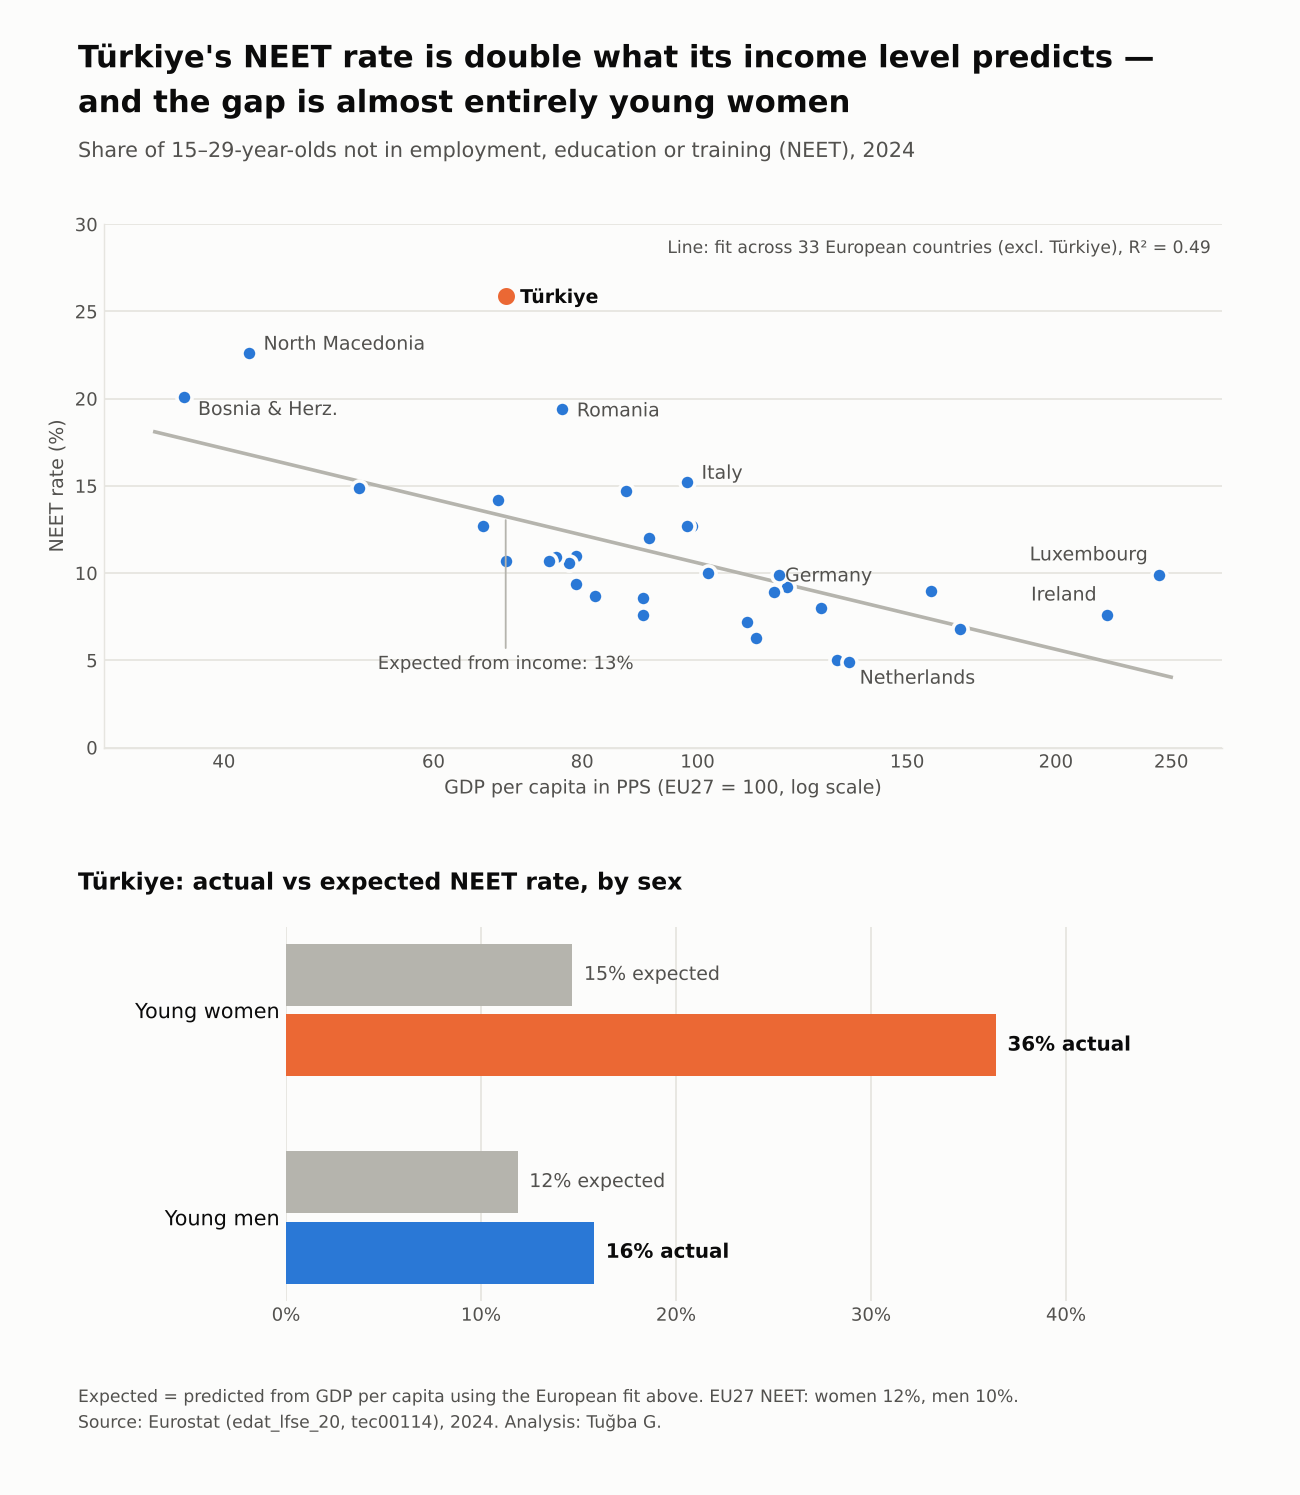
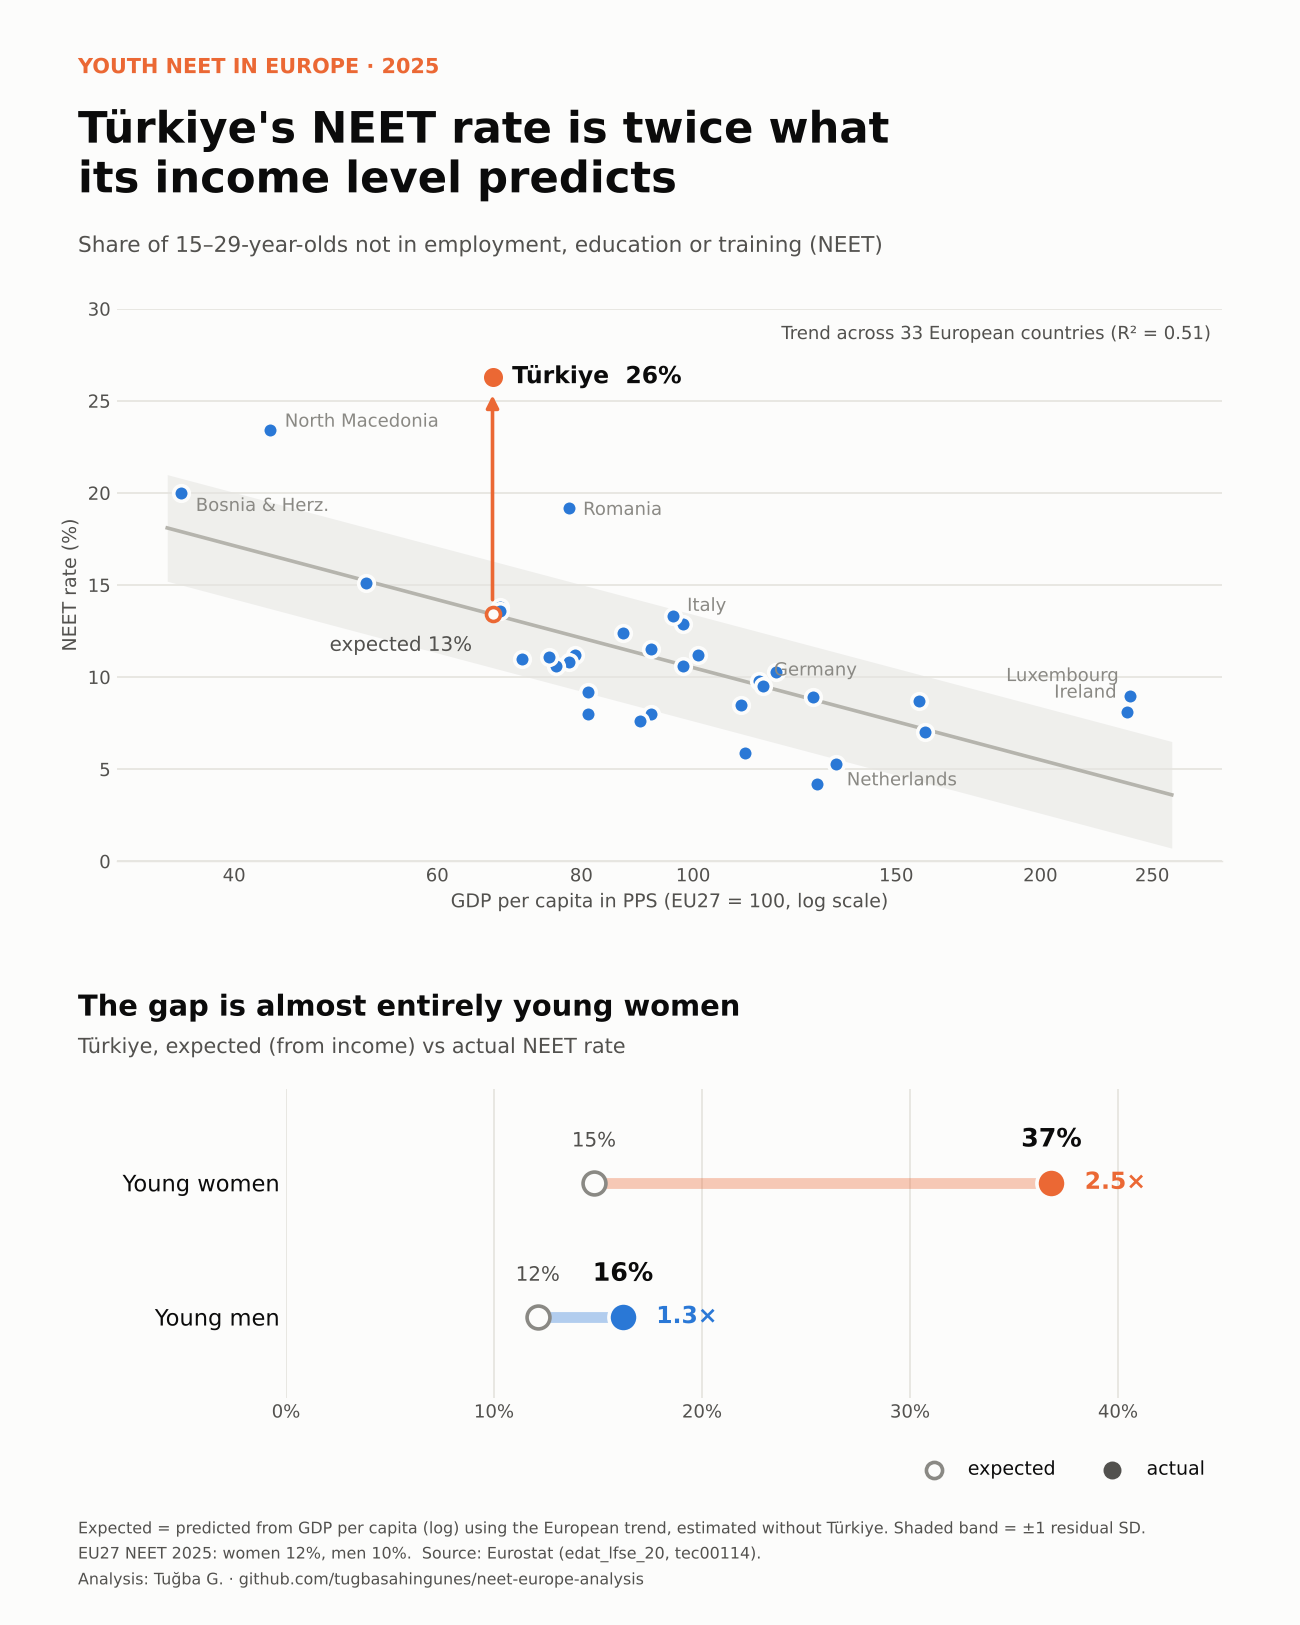
Update country-level analysis to 2025 Eurostat data; redesign figures
Claude-Session: https://claude.ai/code/session_011tzuMgGgDczwxd2DtenHW8

diff --git a/01_country_level/analysis.py b/01_country_level/analysis.py
@@ -2,11 +2,11 @@
 Youth NEET rates across Europe: how much does income explain?
 
 Data: Eurostat (downloaded via the `eurostat` Python package)
-  - edat_lfse_20  Young people neither in employment nor in education and training (NEET), 2024
-  - tec00114      GDP per capita in PPS (EU27 = 100), 2024
-  - edat_lfse_14  Early leavers from education and training, 2024
-  - tps00098      Expenditure on social protection, % of GDP, 2023
-  - educ_uoe_fine06 Public expenditure on education, % of GDP, 2022
+  - edat_lfse_20  Young people neither in employment nor in education and training (NEET), 2025
+  - tec00114      GDP per capita in PPS (EU27 = 100), 2025
+  - edat_lfse_14  Early leavers from education and training, 2025
+  - tps00098      Expenditure on social protection, % of GDP, 2024
+  - educ_uoe_fine06 Public expenditure on education, % of GDP, 2023
 
 Run:  python analysis.py
 """
@@ -46,13 +46,13 @@ def pick(df, year, **filters):
 
 neet_raw = load("edat_lfse_20")
 df = pd.DataFrame({
-    "neet":   pick(neet_raw, "2024", sex="T", age="Y15-29", wstatus="NEMP"),
-    "neet_f": pick(neet_raw, "2024", sex="F", age="Y15-29", wstatus="NEMP"),
-    "neet_m": pick(neet_raw, "2024", sex="M", age="Y15-29", wstatus="NEMP"),
-    "gdp_pps": pick(load("tec00114"), "2024"),
-    "early_leavers": pick(load("edat_lfse_14"), "2024", sex="T", wstatus="POP"),
-    "social_prot": pick(load("tps00098"), "2023", spdeps="TOTAL"),
-    "edu_spend": pick(load("educ_uoe_fine06"), "2022", isced11="ED02-8"),
+    "neet":   pick(neet_raw, "2025", sex="T", age="Y15-29", wstatus="NEMP"),
+    "neet_f": pick(neet_raw, "2025", sex="F", age="Y15-29", wstatus="NEMP"),
+    "neet_m": pick(neet_raw, "2025", sex="M", age="Y15-29", wstatus="NEMP"),
+    "gdp_pps": pick(load("tec00114"), "2025"),
+    "early_leavers": pick(load("edat_lfse_14"), "2025", sex="T", wstatus="POP"),
+    "social_prot": pick(load("tps00098"), "2024", spdeps="TOTAL"),
+    "edu_spend": pick(load("educ_uoe_fine06"), "2023", isced11="ED02-8"),
 })
 eu = df.loc["EU27_2020"]
 df = df[~df.index.str.match(r"^(EU|EA)")].dropna(subset=["neet", "gdp_pps"])
@@ -87,7 +87,7 @@ cooks = pd.Series(smf.ols(f_multi, sub).fit().get_influence().cooks_distance[0],
                   index=sub.index).sort_values(ascending=False)
 lines.append("\n## Influence check (Cook's distance, multivariate model)\n")
 lines.append(cooks.head(5).round(2).to_frame("cooks_d").to_markdown())
-lines.append("\nTürkiye is a highly influential observation (Cook's D ≈ 1). "
+lines.append(f"\nTürkiye is a highly influential observation (Cook's D = {cooks['TR']:.2f}). "
              "The early-leavers and social-protection effects are not robust to "
              "excluding it, so only the income relationship is used for the headline.")
 
@@ -104,34 +104,42 @@ lines.append(pd.DataFrame({
 (RES / "regression_results.md").write_text("# Results: country-level NEET models\n" + "\n".join(lines))
 
 # ---------------------------------------------------------------- 3. figure
-S, T1, T2 = "#fcfcfb", "#0b0b0b", "#52514e"
+S, T1, T2, T3 = "#fcfcfb", "#0b0b0b", "#52514e", "#8a8984"
 BLUE, ORANGE, GREY, GRID = "#2a78d6", "#eb6834", "#b5b4ad", "#e6e5e0"
 plt.rcParams.update({"font.family": "DejaVu Sans", "text.color": T1,
                      "axes.labelcolor": T2, "xtick.color": T2, "ytick.color": T2})
+trv = tr.iloc[0]
+fig = plt.figure(figsize=(10, 12.5), dpi=130, facecolor=S)
 
-fig = plt.figure(figsize=(10, 11.5), dpi=130, facecolor=S)
-fig.text(0.06, 0.955, "Türkiye's NEET rate is double what its income level predicts —", fontsize=17, weight="bold")
-fig.text(0.06, 0.925, "and the gap is almost entirely young women", fontsize=17, weight="bold")
-fig.text(0.06, 0.895, "Share of 15–29-year-olds not in employment, education or training (NEET), 2024",
-         fontsize=11.5, color=T2)
+# headline
+fig.text(0.06, 0.955, "YOUTH NEET IN EUROPE · 2025", fontsize=11.5, color=ORANGE, weight="bold")
+fig.text(0.06, 0.935, "Türkiye's NEET rate is twice what\nits income level predicts",
+         fontsize=24, weight="bold", va="top", linespacing=1.15)
+fig.text(0.06, 0.845, "Share of 15–29-year-olds not in employment, education or training (NEET)",
+         fontsize=12, color=T2)
 
-ax = fig.add_axes([0.08, 0.50, 0.86, 0.35], facecolor=S)
+# scatter
+ax = fig.add_axes([0.09, 0.47, 0.85, 0.34], facecolor=S)
 b0, b1 = m_main.params.iloc[0], m_main.params.iloc[1]
-x = np.linspace(np.log(35), np.log(250), 100)
+x = np.linspace(np.log(35), np.log(260), 100)
+resid_sd = np.sqrt(m_main.scale)
+ax.fill_between(np.exp(x), b0 + b1 * x - resid_sd, b0 + b1 * x + resid_sd, color=GREY, alpha=0.18, lw=0, zorder=0)
 ax.plot(np.exp(x), b0 + b1 * x, color=GREY, lw=2, zorder=1)
-ax.scatter(no_tr.gdp_pps, no_tr.neet, s=70, color=BLUE, edgecolor=S, lw=2, zorder=2)
-ax.scatter(tr.gdp_pps, tr.neet, s=130, color=ORANGE, edgecolor=S, lw=2, zorder=3)
-labels = {"TR": ("Türkiye", (8, -4)), "MK": ("North Macedonia", (8, 2)), "RO": ("Romania", (8, -4)),
-          "IT": ("Italy", (8, 2)), "NL": ("Netherlands", (6, -12)), "IE": ("Ireland", (-6, 8)),
-          "LU": ("Luxembourg", (-6, 8)), "BA": ("Bosnia & Herz.", (8, -10)), "DE": ("Germany", (6, 6))}
+ax.scatter(no_tr.gdp_pps, no_tr.neet, s=75, color=BLUE, edgecolor=S, lw=2, zorder=2)
+ax.scatter(tr.gdp_pps, tr.neet, s=170, color=ORANGE, edgecolor=S, lw=2.5, zorder=4)
+gx = trv.gdp_pps
+ax.annotate("", xy=(gx, trv.neet - 0.8), xytext=(gx, exp_all + 0.6),
+            arrowprops=dict(arrowstyle="-|>", color=ORANGE, lw=2, mutation_scale=14), zorder=3)
+ax.scatter([gx], [exp_all], s=60, facecolor=S, edgecolor=ORANGE, lw=2, zorder=4)
+ax.text(gx * 1.04, trv.neet, f"Türkiye  {trv.neet:.0f}%", fontsize=13, weight="bold", va="center")
+ax.text(gx * 0.96, exp_all - 1.7, f"expected {exp_all:.0f}%", fontsize=11, color=T2, va="center", ha="right")
+labels = {"MK": ("North Macedonia", (8, 2)), "RO": ("Romania", (8, -4)), "IT": ("Italy", (8, 3)),
+          "NL": ("Netherlands", (6, -12)), "IE": ("Ireland", (-6, 8)), "LU": ("Luxembourg", (-6, 8)),
+          "BA": ("Bosnia & Herz.", (8, -10)), "DE": ("Germany", (6, 6))}
 for k, (name, off) in labels.items():
     if k in df.index:
         ax.annotate(name, (df.loc[k, "gdp_pps"], df.loc[k, "neet"]), xytext=off,
-                    textcoords="offset points", fontsize=10.5, ha="right" if off[0] < 0 else "left",
-                    color=T1 if k == "TR" else T2, weight="bold" if k == "TR" else "normal")
-gx = tr.gdp_pps.iloc[0]
-ax.annotate(f"Expected from income: {exp_all:.0f}%", (gx, b0 + b1 * np.log(gx)), xytext=(gx, 4.5),
-            fontsize=10, color=T2, ha="center", arrowprops=dict(arrowstyle="-", color=GREY, lw=1))
+                    textcoords="offset points", fontsize=10, color=T3, ha="right" if off[0] < 0 else "left")
 ax.set_xscale("log")
 ax.xaxis.set_major_locator(FixedLocator([40, 60, 80, 100, 150, 200, 250]))
 ax.set_xticklabels(["40", "60", "80", "100", "150", "200", "250"])
@@ -140,29 +148,37 @@ ax.set_xlabel("GDP per capita in PPS (EU27 = 100, log scale)", fontsize=10.5)
 ax.set_ylabel("NEET rate (%)", fontsize=10.5)
 ax.set_ylim(0, 30)
 ax.grid(axis="y", color=GRID, lw=1); ax.set_axisbelow(True); ax.tick_params(length=0)
-for s in ("top", "right"): ax.spines[s].set_visible(False)
-for s in ("left", "bottom"): ax.spines[s].set_color(GRID)
-ax.text(0.99, 0.97, f"Line: fit across {int(m_main.nobs)} European countries (excl. Türkiye), R² = {m_main.rsquared:.2f}",
-        transform=ax.transAxes, ha="right", va="top", fontsize=9.5, color=T2)
+for s in ("top", "right", "left"): ax.spines[s].set_visible(False)
+ax.spines["bottom"].set_color(GRID)
+ax.text(0.99, 0.97, f"Trend across {int(m_main.nobs)} European countries (R² = {m_main.rsquared:.2f})",
+        transform=ax.transAxes, ha="right", va="top", fontsize=10, color=T2)
 
-fig.text(0.06, 0.405, "Türkiye: actual vs expected NEET rate, by sex", fontsize=13, weight="bold")
-ax2 = fig.add_axes([0.22, 0.13, 0.72, 0.25], facecolor=S)
-rows = [("Young women", tr.neet_f.iloc[0], exp_f, ORANGE), ("Young men", tr.neet_m.iloc[0], exp_m, BLUE)]
-for i, (lab, actual, expected, col) in enumerate(rows):
-    y = 1 - i
-    ax2.barh(y + 0.17, expected, height=0.3, color=GREY)
-    ax2.barh(y - 0.17, actual, height=0.3, color=col)
-    ax2.text(expected + 0.6, y + 0.17, f"{expected:.0f}% expected", va="center", fontsize=10.5, color=T2)
-    ax2.text(actual + 0.6, y - 0.17, f"{actual:.0f}% actual", va="center", fontsize=11, weight="bold")
-ax2.set_yticks([1, 0]); ax2.set_yticklabels([r[0] for r in rows], fontsize=11.5, color=T1)
-ax2.set_xlim(0, 48); ax2.set_xticks([0, 10, 20, 30, 40])
-ax2.set_xticklabels(["0%", "10%", "20%", "30%", "40%"])
+# dumbbell by sex
+fig.text(0.06, 0.375, "The gap is almost entirely young women", fontsize=16, weight="bold")
+fig.text(0.06, 0.352, "Türkiye, expected (from income) vs actual NEET rate", fontsize=11.5, color=T2)
+ax2 = fig.add_axes([0.22, 0.14, 0.72, 0.19], facecolor=S)
+rows = [("Young women", exp_f, trv.neet_f, ORANGE), ("Young men", exp_m, trv.neet_m, BLUE)]
+for i, (lab, e, a, col) in enumerate(rows):
+    yy = 1 - i
+    ax2.plot([e, a], [yy, yy], color=col, lw=6, alpha=0.35, solid_capstyle="round", zorder=1)
+    ax2.scatter([e], [yy], s=160, facecolor=S, edgecolor=T3, lw=2, zorder=2)
+    ax2.scatter([a], [yy], s=260, color=col, edgecolor=S, lw=2, zorder=3)
+    ax2.text(e, yy + 0.27, f"{e:.0f}%", ha="center", fontsize=11, color=T2)
+    ax2.text(a, yy + 0.27, f"{a:.0f}%", ha="center", fontsize=14, weight="bold")
+    ax2.text(a + 1.6, yy, f"{a/e:.1f}×", va="center", fontsize=13, color=col, weight="bold")
+ax2.set_yticks([1, 0]); ax2.set_yticklabels([r[0] for r in rows], fontsize=12.5, color=T1)
+ax2.set_ylim(-0.6, 1.7); ax2.set_xlim(0, 45)
+ax2.set_xticks([0, 10, 20, 30, 40]); ax2.set_xticklabels(["0%", "10%", "20%", "30%", "40%"])
 ax2.grid(axis="x", color=GRID, lw=1); ax2.set_axisbelow(True); ax2.tick_params(length=0)
 for s in ax2.spines.values(): s.set_visible(False)
-fig.text(0.06, 0.045,
-         f"Expected = predicted from GDP per capita using the European fit above. "
-         f"EU27 NEET: women {eu.neet_f:.0f}%, men {eu.neet_m:.0f}%.\n"
-         "Source: Eurostat (edat_lfse_20, tec00114), 2024. Analysis: Tuğba G.",
-         fontsize=9.5, color=T2, linespacing=1.5)
+ax2.scatter([], [], s=80, facecolor=S, edgecolor=T3, lw=2, label="expected")
+ax2.scatter([], [], s=80, color=T2, label="actual")
+ax2.legend(loc="lower right", frameon=False, fontsize=10.5, ncol=2, bbox_to_anchor=(1, -0.32))
+
+fig.text(0.06, 0.025,
+         f"Expected = predicted from GDP per capita (log) using the European trend, estimated without Türkiye. "
+         f"Shaded band = ±1 residual SD.\nEU27 NEET 2025: women {eu.neet_f:.0f}%, men {eu.neet_m:.0f}%.  Source: Eurostat (edat_lfse_20, tec00114).\n"
+         "Analysis: Tuğba G. · github.com/tugbasahingunes/neet-europe-analysis",
+         fontsize=8.8, color=T2, linespacing=1.6)
 fig.savefig(FIG / "neet_income_turkiye.png", facecolor=S)
 print("Done. See figures/ and results/.")

diff --git a/02_ess_microdata/analysis.py b/02_ess_microdata/analysis.py
@@ -105,27 +105,28 @@ md = ["# Results: ESS Round 11 NEET model\n",
 S, T1, T2 = "#fcfcfb", "#0b0b0b", "#52514e"
 BLUE, ORANGE, GRID = "#2a78d6", "#eb6834", "#e6e5e0"
 plt.rcParams.update({"font.family": "DejaVu Sans", "text.color": T1})
-fig = plt.figure(figsize=(10, 10), dpi=130, facecolor=S)
-fig.text(0.06, 0.93, "It's not being a young woman.", fontsize=20, weight="bold")
-fig.text(0.06, 0.89, "It's being a young mother.", fontsize=20, weight="bold", color=ORANGE)
-fig.text(0.06, 0.845, f"Predicted probability of being NEET, ages 15–29, {y.cntry.nunique()} European countries",
+fig = plt.figure(figsize=(10, 12.5), dpi=130, facecolor=S)
+fig.text(0.06, 0.955, "YOUTH NEET IN EUROPE · INDIVIDUAL DATA", fontsize=11.5, color=ORANGE, weight="bold")
+fig.text(0.06, 0.935, "It's not being a young woman.", fontsize=24, weight="bold", va="top")
+fig.text(0.06, 0.895, "It's being a young mother.", fontsize=24, weight="bold", color=ORANGE, va="top")
+fig.text(0.06, 0.835, f"Predicted probability of being NEET, ages 15–29, {y.cntry.nunique()} European countries",
          fontsize=12, color=T2)
-ax = fig.add_axes([0.30, 0.30, 0.62, 0.48], facecolor=S)
+ax = fig.add_axes([0.30, 0.33, 0.62, 0.45], facecolor=S)
 labels = ["Young men,\nno child at home", "Young fathers", "Young women,\nno child at home", "Young mothers"]
 for i, (lab, v) in enumerate(zip(labels, pp.values())):
     yy = len(labels) - 1 - i
     ax.barh(yy, v * 100, height=0.55, color=ORANGE if i == 3 else BLUE)
-    ax.text(v * 100 + 1, yy, f"{v*100:.0f}%", va="center", fontsize=15, weight="bold")
+    ax.text(v * 100 + 1, yy, f"{v*100:.0f}%", va="center", fontsize=18, weight="bold")
 ax.set_yticks(range(len(labels))); ax.set_yticklabels(labels[::-1], fontsize=12.5, color=T1)
 ax.set_xlim(0, 60); ax.set_xticks([0, 20, 40, 60])
 ax.set_xticklabels(["0%", "20%", "40%", "60%"], color=T2)
 ax.grid(axis="x", color=GRID); ax.set_axisbelow(True); ax.tick_params(length=0)
 for s in ax.spines.values(): s.set_visible(False)
-fig.text(0.06, 0.20, f"Among NEET young mothers, {care_share:.0%} report their main activity as\n"
-         "housework or looking after children.", fontsize=12.5, linespacing=1.5)
-fig.text(0.06, 0.06, f"Weighted logistic regression, n = {len(y):,}. Controls: age, own education, parental education, partner in\n"
+fig.text(0.06, 0.235, f"{care_share:.0%}", fontsize=40, weight="bold", color=ORANGE, va="center")
+fig.text(0.25, 0.235, "of NEET young mothers say their main activity\nis housework or looking after children", fontsize=14, va="center", linespacing=1.4)
+fig.text(0.06, 0.04, f"Weighted logistic regression, n = {len(y):,}. Controls: age, own education, parental education, partner in\n"
          "household, born abroad, country fixed effects; SEs clustered by country.\n"
-         "Source: European Social Survey Round 11 (2023–24). Analysis: Tuğba G.",
+         "Source: European Social Survey Round 11 (2023–24).\nAnalysis: Tuğba G. · github.com/tugbasahingunes/neet-europe-analysis",
          fontsize=9.5, color=T2, linespacing=1.5)
 fig.savefig(FIG / "neet_young_mothers.png", facecolor=S)
 print("Done. See figures/ and results/.")

diff --git a/01_country_level/results/regression_results.md b/01_country_level/results/regression_results.md
@@ -2,51 +2,51 @@
 
 ## Main model: NEET ~ log GDP per capita (excl. Türkiye)
 
-n = 33, R² = 0.49, adj. R² = 0.48 (HC3 robust SEs)
+n = 33, R² = 0.51, adj. R² = 0.49 (HC3 robust SEs)
 
 |           |   coef |    se |   p |
 |:----------|-------:|------:|----:|
-| Intercept | 43.537 | 8.786 |   0 |
-| log_gdp   | -7.155 | 1.929 |   0 |
+| Intercept | 43.794 | 8.988 |   0 |
+| log_gdp   | -7.227 | 1.967 |   0 |
 
 ## Robustness: multivariate, all countries
 
-n = 33, R² = 0.52, adj. R² = 0.47 (HC3 robust SEs)
+n = 33, R² = 0.50, adj. R² = 0.45 (HC3 robust SEs)
 
 |               |   coef |    se |     p |
 |:--------------|-------:|------:|------:|
-| Intercept     | 40.028 | 9.924 | 0     |
-| early_leavers |  0.35  | 0.257 | 0.173 |
-| social_prot   | -0.165 | 0.151 | 0.277 |
-| log_gdp       | -6.163 | 2.234 | 0.006 |
+| Intercept     | 41.568 | 9.75  | 0     |
+| early_leavers |  0.289 | 0.319 | 0.364 |
+| social_prot   | -0.176 | 0.161 | 0.276 |
+| log_gdp       | -6.31  | 2.139 | 0.003 |
 
 ## Robustness: multivariate, excl. Türkiye
 
-n = 32, R² = 0.44, adj. R² = 0.38 (HC3 robust SEs)
+n = 32, R² = 0.45, adj. R² = 0.39 (HC3 robust SEs)
 
 |               |   coef |    se |     p |
 |:--------------|-------:|------:|------:|
-| Intercept     | 37.945 | 9.252 | 0     |
-| early_leavers |  0.144 | 0.239 | 0.548 |
-| social_prot   | -0.059 | 0.118 | 0.617 |
-| log_gdp       | -5.926 | 2.144 | 0.006 |
+| Intercept     | 38.331 | 8.479 | 0     |
+| early_leavers |  0.037 | 0.275 | 0.894 |
+| social_prot   | -0.051 | 0.113 | 0.651 |
+| log_gdp       | -5.878 | 1.985 | 0.003 |
 
 ## Influence check (Cook's distance, multivariate model)
 
 | geo   |   cooks_d |
 |:------|----------:|
-| TR    |      1.02 |
-| BA    |      0.24 |
-| LU    |      0.21 |
-| IS    |      0.2  |
-| IE    |      0.13 |
+| TR    |      1.37 |
+| IS    |      0.39 |
+| BA    |      0.21 |
+| LU    |      0.2  |
+| IE    |      0.16 |
 
-Türkiye is a highly influential observation (Cook's D ≈ 1). The early-leavers and social-protection effects are not robust to excluding it, so only the income relationship is used for the headline.
+Türkiye is a highly influential observation (Cook's D = 1.37). The early-leavers and social-protection effects are not robust to excluding it, so only the income relationship is used for the headline.
 
 ## Türkiye: actual vs expected from income
 
 |       |   actual |   expected |
 |:------|---------:|-----------:|
-| total |     25.9 |       13.2 |
-| women |     36.4 |       14.7 |
-| men   |     15.8 |       11.9 |
+| total |     26.3 |       13.4 |
+| women |     36.8 |       14.8 |
+| men   |     16.2 |       12.1 |

diff --git a/README.md b/README.md
@@ -9,17 +9,17 @@ Author: **Tuğba G.**, Family and Social Services Expert · Data & AI for Social
 ---
 
 ## 01 · Country level: how much does income explain?
-`01_country_level/` · Data: Eurostat, 2024 · Method: OLS regression
+`01_country_level/` · Data: Eurostat, 2025 · Method: OLS regression
 
 ![NEET and income](01_country_level/figures/neet_income_turkiye.png)
 
 **Findings**
-- Across 33 European countries, GDP per capita (PPS, log) explains about half of the variation in NEET rates among 15–29-year-olds (R² = 0.49).
-- Based on its income level, Türkiye's expected NEET rate is about 13%; the actual rate is 26%.
-- The excess is concentrated among young women (36% actual vs 15% expected); for young men the gap is small (16% vs 12%).
+- Across 33 European countries, GDP per capita (PPS, log) explains about half of the variation in NEET rates among 15–29-year-olds (R² = 0.51).
+- Based on its income level, Türkiye's expected NEET rate is about 13%; the actual rate is 26% (2025).
+- The excess is concentrated among young women (37% actual vs 15% expected); for young men the gap is small (16% vs 12%).
 
 **Robustness:** A multivariate model adding early school leaving and social protection spending was also estimated.
-Türkiye is a highly influential observation (Cook's D ≈ 1), and those additional effects are not robust to excluding it,
+Türkiye is a highly influential observation (Cook's D = 1.37), and those additional effects are not robust to excluding it,
 so only the income relationship is used for the headline. Full output: [`results/regression_results.md`](01_country_level/results/regression_results.md).
 
 ---
